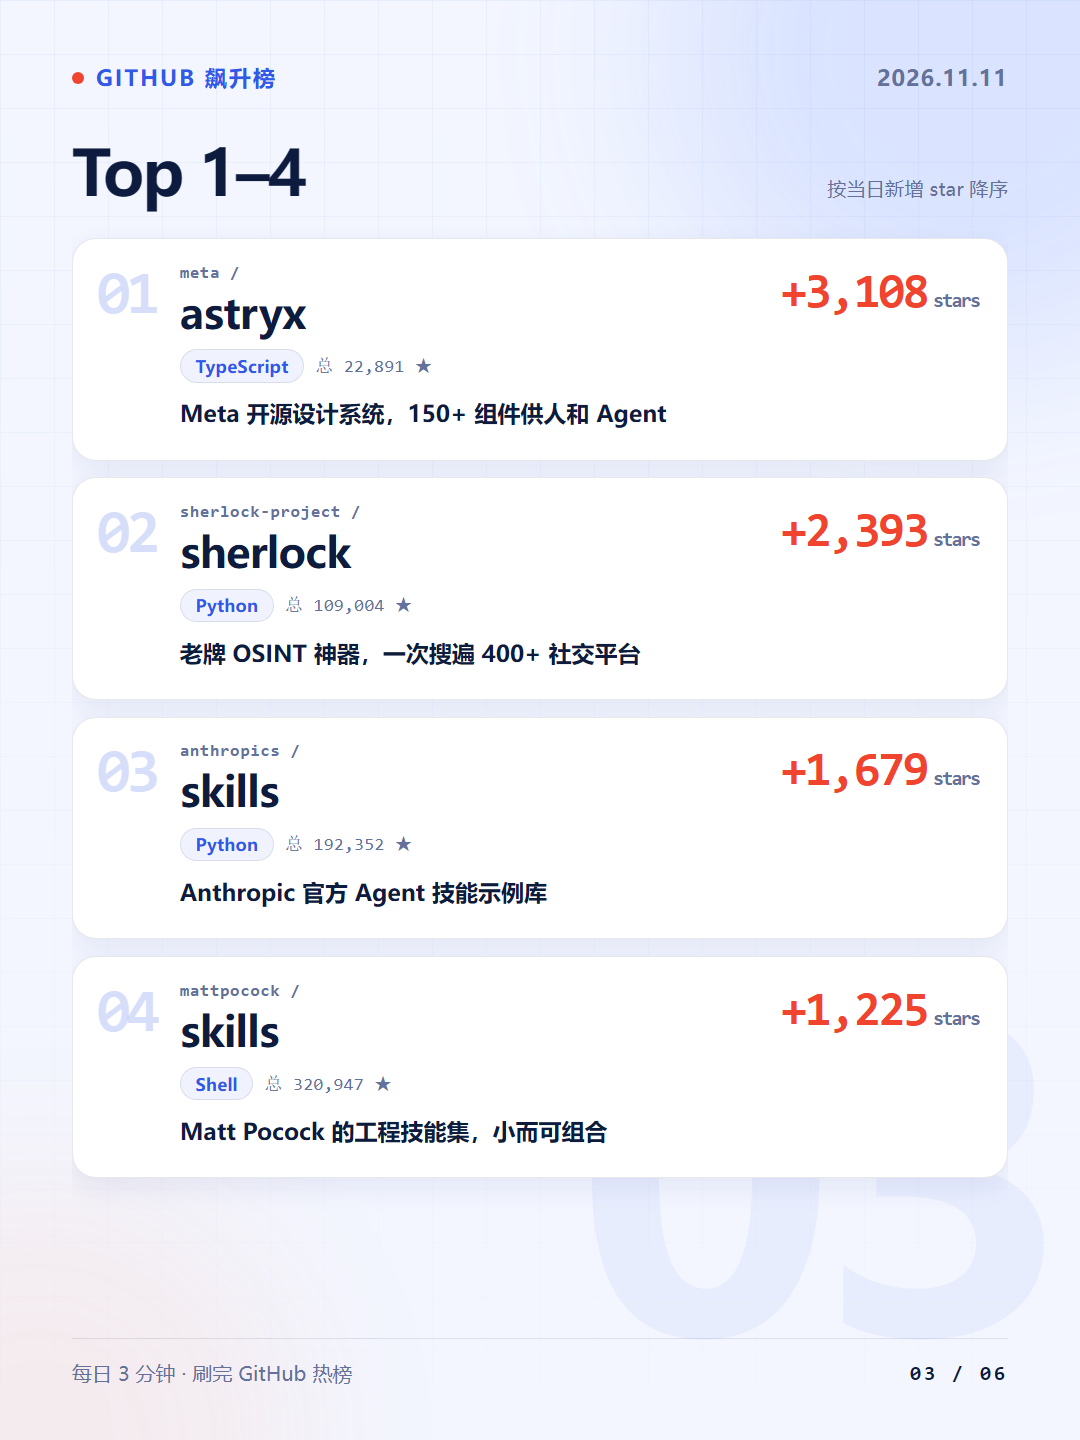
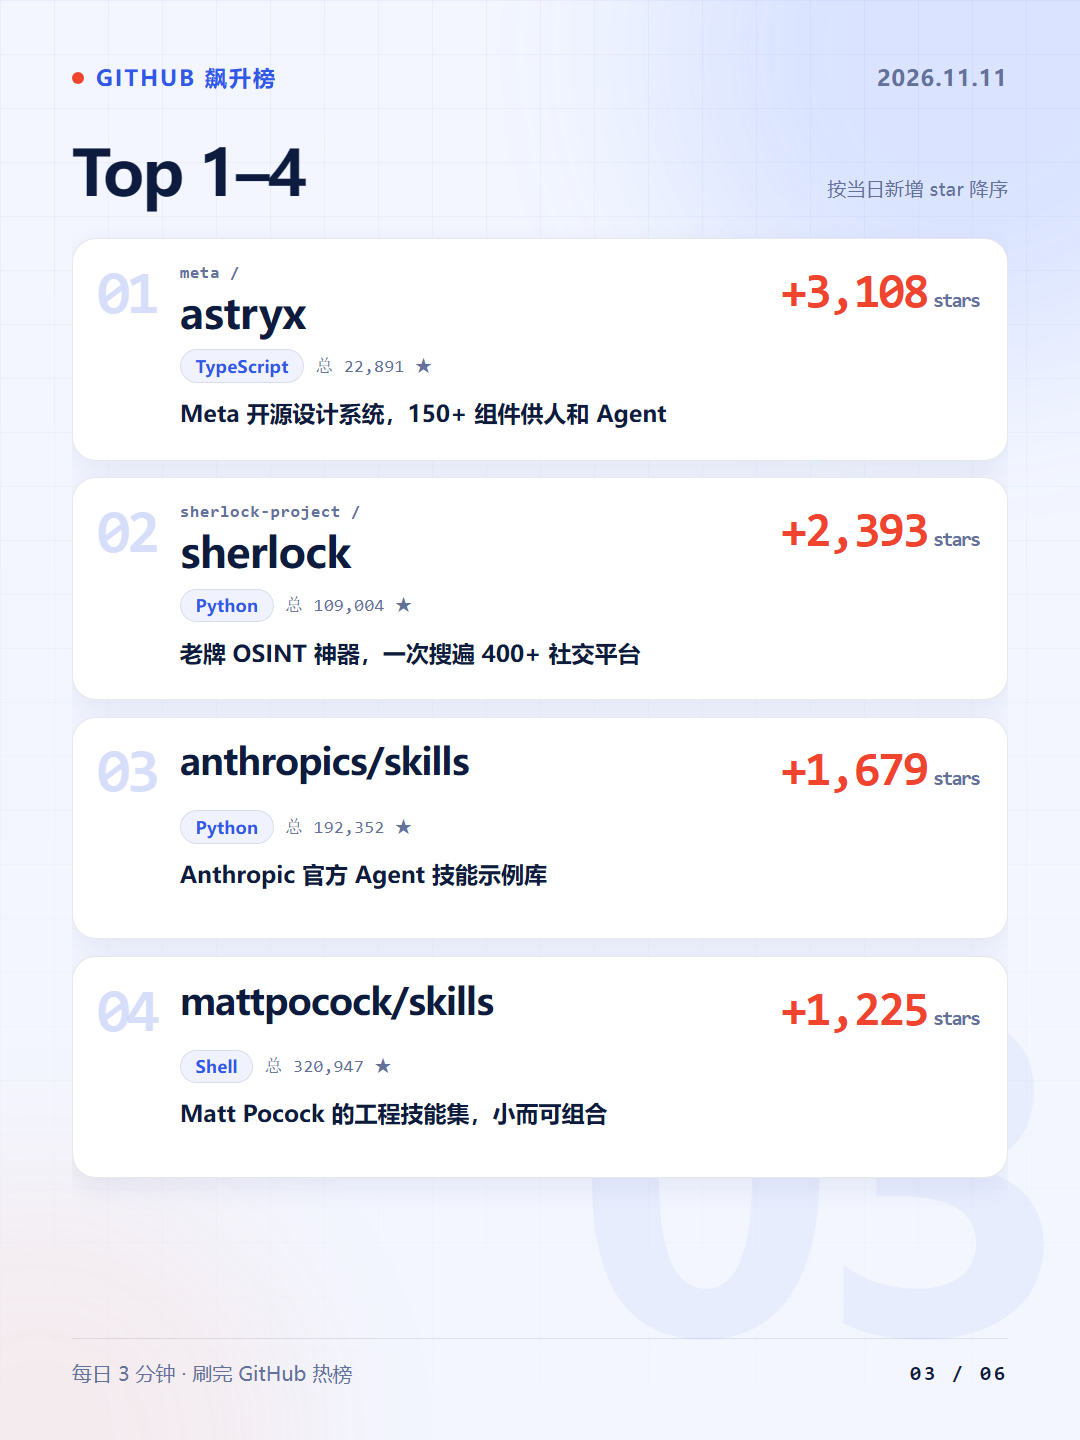
fix: 榜单重名仓库改显示 owner/repo，重推 11-11 草稿

Changed region(s): [[0.1528, 0.5, 0.5194, 0.625], [0.1528, 0.6875, 0.4583, 0.8125], [0.4583, 0.75, 0.5806, 0.8125]]

diff --git a/pic/20261111/xhs/_02-今日看点.html b/pic/20261111/xhs/_02-今日看点.html
@@ -84,7 +84,7 @@ body{
    border-radius:24px;padding:24px 30px 20px;box-shadow:var(--shadow)}
 .bars h3{font-size:23px;font-weight:900;margin-bottom:20px;letter-spacing:1px}
 .bar{display:flex;align-items:center;gap:16px;margin:15px 0;font-size:20px}
-.bar .bn{width:230px;overflow:hidden;text-overflow:ellipsis;white-space:nowrap;font-weight:700}
+.bar .bn{width:290px;overflow:hidden;text-overflow:ellipsis;white-space:nowrap;font-weight:700}
 .bar .track{flex:1;height:15px;background:var(--pill);border-radius:99px;overflow:hidden}
 .bar .track i{display:block;height:100%;border-radius:99px;
    background:linear-gradient(90deg,var(--hot),var(--hot2))}
@@ -149,7 +149,7 @@ body{
       <div class="sec-desc">GitHub Trending · daily · 2026-11-11 09:14 UTC+8</div>
       <div class="overview">astryx 接棒登顶，单日 +3108 星；sherlock 退居第二。Skills 三席同榜成最大看点，Top10 合计 +11802，6 席为昨日老面孔。</div>
       <div class="trends"><div class="trend"><div class="n mono">01</div><div class="t">astryx 登顶，+3108 星</div></div><div class="trend"><div class="n mono">02</div><div class="t">Skills 三席同榜，共 +3369</div></div><div class="trend"><div class="n mono">03</div><div class="t">Top10 合计 +11802 星</div></div></div>
-      <div class="bars"><h3>今日涨星分布 · TOP 5</h3><div class="bar"><span class="bn">astryx</span><div class="track"><i style="width:100%"></i></div><span class="bv mono">+3,108</span></div><div class="bar"><span class="bn">sherlock</span><div class="track"><i style="width:77%"></i></div><span class="bv mono">+2,393</span></div><div class="bar"><span class="bn">skills</span><div class="track"><i style="width:54%"></i></div><span class="bv mono">+1,679</span></div><div class="bar"><span class="bn">skills</span><div class="track"><i style="width:39%"></i></div><span class="bv mono">+1,225</span></div><div class="bar"><span class="bn">ha-mcp</span><div class="track"><i style="width:25%"></i></div><span class="bv mono">+790</span></div></div>
+      <div class="bars"><h3>今日涨星分布 · TOP 5</h3><div class="bar"><span class="bn">astryx</span><div class="track"><i style="width:100%"></i></div><span class="bv mono">+3,108</span></div><div class="bar"><span class="bn">sherlock</span><div class="track"><i style="width:77%"></i></div><span class="bv mono">+2,393</span></div><div class="bar"><span class="bn">anthropics/skills</span><div class="track"><i style="width:54%"></i></div><span class="bv mono">+1,679</span></div><div class="bar"><span class="bn">mattpocock/skills</span><div class="track"><i style="width:39%"></i></div><span class="bv mono">+1,225</span></div><div class="bar"><span class="bn">ha-mcp</span><div class="track"><i style="width:25%"></i></div><span class="bv mono">+790</span></div></div>
       <div class="stat-row">
       <div class="stat"><div class="v hot mono">+11,802</div><div class="l">合计涨星</div></div>
       <div class="stat"><div class="v mono">10</div><div class="l">上榜项目</div></div>

diff --git a/pic/20261111/xhs/_01-封面.html b/pic/20261111/xhs/_01-封面.html
@@ -84,7 +84,7 @@ body{
    border-radius:24px;padding:24px 30px 20px;box-shadow:var(--shadow)}
 .bars h3{font-size:23px;font-weight:900;margin-bottom:20px;letter-spacing:1px}
 .bar{display:flex;align-items:center;gap:16px;margin:15px 0;font-size:20px}
-.bar .bn{width:230px;overflow:hidden;text-overflow:ellipsis;white-space:nowrap;font-weight:700}
+.bar .bn{width:290px;overflow:hidden;text-overflow:ellipsis;white-space:nowrap;font-weight:700}
 .bar .track{flex:1;height:15px;background:var(--pill);border-radius:99px;overflow:hidden}
 .bar .track i{display:block;height:100%;border-radius:99px;
    background:linear-gradient(90deg,var(--hot),var(--hot2))}
@@ -150,7 +150,7 @@ body{
         <div class="cover-sub">GitHub 飙升榜 Top 10</div>
         <div class="cover-kicker">每日开源项目速览</div>
         <div class="cover-pills"><span class="pill">astryx 登顶，+3108 星</span><span class="pill">Skills 三席同榜，共 +3369</span><span class="pill">Top10 合计 +11802 星</span></div>
-        <div class="cover-top3"><div class="t3h">今日 TOP 3 · 涨星</div><div class="t3"><span class="r mono">01</span><span class="n">astryx</span><span class="d mono">+3,108</span></div><div class="t3"><span class="r mono">02</span><span class="n">sherlock</span><span class="d mono">+2,393</span></div><div class="t3"><span class="r mono">03</span><span class="n">skills</span><span class="d mono">+1,679</span></div></div>
+        <div class="cover-top3"><div class="t3h">今日 TOP 3 · 涨星</div><div class="t3"><span class="r mono">01</span><span class="n">astryx</span><span class="d mono">+3,108</span></div><div class="t3"><span class="r mono">02</span><span class="n">sherlock</span><span class="d mono">+2,393</span></div><div class="t3"><span class="r mono">03</span><span class="n">anthropics/skills</span><span class="d mono">+1,679</span></div></div>
         <div class="cover-stats">
       <div class="s"><div class="v hot mono">+11,802</div><div class="l">Top10 今日合计涨星</div></div>
       <div class="s"><div class="v mono">+3,108</div><div class="l">单日最高</div></div>

diff --git a/pic/20261111/xhs/_03-榜单-01-04.html b/pic/20261111/xhs/_03-榜单-01-04.html
@@ -84,7 +84,7 @@ body{
    border-radius:24px;padding:24px 30px 20px;box-shadow:var(--shadow)}
 .bars h3{font-size:23px;font-weight:900;margin-bottom:20px;letter-spacing:1px}
 .bar{display:flex;align-items:center;gap:16px;margin:15px 0;font-size:20px}
-.bar .bn{width:230px;overflow:hidden;text-overflow:ellipsis;white-space:nowrap;font-weight:700}
+.bar .bn{width:290px;overflow:hidden;text-overflow:ellipsis;white-space:nowrap;font-weight:700}
 .bar .track{flex:1;height:15px;background:var(--pill);border-radius:99px;overflow:hidden}
 .bar .track i{display:block;height:100%;border-radius:99px;
    background:linear-gradient(90deg,var(--hot),var(--hot2))}
@@ -173,8 +173,8 @@ body{
               <div class="row">
                 <div class="rk mono">03</div>
                 <div class="top">
-                  <div class="repo-box"><div class="owner-line mono">anthropics /</div>
-                    <div class="repo-name" style="font-size:46px">skills</div></div>
+                  <div class="repo-box">
+                    <div class="repo-name" style="font-size:40px">anthropics/skills</div></div>
                   <div class="delta mono">+1,679<small>stars</small></div>
                 </div>
                 <div class="meta"><span class="tag">Python</span>
@@ -184,8 +184,8 @@ body{
               <div class="row">
                 <div class="rk mono">04</div>
                 <div class="top">
-                  <div class="repo-box"><div class="owner-line mono">mattpocock /</div>
-                    <div class="repo-name" style="font-size:46px">skills</div></div>
+                  <div class="repo-box">
+                    <div class="repo-name" style="font-size:40px">mattpocock/skills</div></div>
                   <div class="delta mono">+1,225<small>stars</small></div>
                 </div>
                 <div class="meta"><span class="tag">Shell</span>

diff --git a/pic/20261111/wechat/_公众号封面.html b/pic/20261111/wechat/_公众号封面.html
@@ -84,7 +84,7 @@ body{
    border-radius:24px;padding:24px 30px 20px;box-shadow:var(--shadow)}
 .bars h3{font-size:23px;font-weight:900;margin-bottom:20px;letter-spacing:1px}
 .bar{display:flex;align-items:center;gap:16px;margin:15px 0;font-size:20px}
-.bar .bn{width:230px;overflow:hidden;text-overflow:ellipsis;white-space:nowrap;font-weight:700}
+.bar .bn{width:290px;overflow:hidden;text-overflow:ellipsis;white-space:nowrap;font-weight:700}
 .bar .track{flex:1;height:15px;background:var(--pill);border-radius:99px;overflow:hidden}
 .bar .track i{display:block;height:100%;border-radius:99px;
    background:linear-gradient(90deg,var(--hot),var(--hot2))}

diff --git a/pic/20261111/xhs/_04-榜单-05-08.html b/pic/20261111/xhs/_04-榜单-05-08.html
@@ -84,7 +84,7 @@ body{
    border-radius:24px;padding:24px 30px 20px;box-shadow:var(--shadow)}
 .bars h3{font-size:23px;font-weight:900;margin-bottom:20px;letter-spacing:1px}
 .bar{display:flex;align-items:center;gap:16px;margin:15px 0;font-size:20px}
-.bar .bn{width:230px;overflow:hidden;text-overflow:ellipsis;white-space:nowrap;font-weight:700}
+.bar .bn{width:290px;overflow:hidden;text-overflow:ellipsis;white-space:nowrap;font-weight:700}
 .bar .track{flex:1;height:15px;background:var(--pill);border-radius:99px;overflow:hidden}
 .bar .track i{display:block;height:100%;border-radius:99px;
    background:linear-gradient(90deg,var(--hot),var(--hot2))}

diff --git a/pic/20261111/xhs/_05-榜单-09-10.html b/pic/20261111/xhs/_05-榜单-09-10.html
@@ -84,7 +84,7 @@ body{
    border-radius:24px;padding:24px 30px 20px;box-shadow:var(--shadow)}
 .bars h3{font-size:23px;font-weight:900;margin-bottom:20px;letter-spacing:1px}
 .bar{display:flex;align-items:center;gap:16px;margin:15px 0;font-size:20px}
-.bar .bn{width:230px;overflow:hidden;text-overflow:ellipsis;white-space:nowrap;font-weight:700}
+.bar .bn{width:290px;overflow:hidden;text-overflow:ellipsis;white-space:nowrap;font-weight:700}
 .bar .track{flex:1;height:15px;background:var(--pill);border-radius:99px;overflow:hidden}
 .bar .track i{display:block;height:100%;border-radius:99px;
    background:linear-gradient(90deg,var(--hot),var(--hot2))}

diff --git a/pic/20261111/xhs/_06-结尾.html b/pic/20261111/xhs/_06-结尾.html
@@ -84,7 +84,7 @@ body{
    border-radius:24px;padding:24px 30px 20px;box-shadow:var(--shadow)}
 .bars h3{font-size:23px;font-weight:900;margin-bottom:20px;letter-spacing:1px}
 .bar{display:flex;align-items:center;gap:16px;margin:15px 0;font-size:20px}
-.bar .bn{width:230px;overflow:hidden;text-overflow:ellipsis;white-space:nowrap;font-weight:700}
+.bar .bn{width:290px;overflow:hidden;text-overflow:ellipsis;white-space:nowrap;font-weight:700}
 .bar .track{flex:1;height:15px;background:var(--pill);border-radius:99px;overflow:hidden}
 .bar .track i{display:block;height:100%;border-radius:99px;
    background:linear-gradient(90deg,var(--hot),var(--hot2))}

diff --git a/scripts/render_xhs_cards.py b/scripts/render_xhs_cards.py
@@ -27,6 +27,7 @@ import re
 import shutil
 import subprocess
 import sys
+from collections import Counter
 from datetime import datetime
 from pathlib import Path
 
@@ -113,7 +114,7 @@ body{
    border-radius:24px;padding:24px 30px 20px;box-shadow:var(--shadow)}
 .bars h3{font-size:23px;font-weight:900;margin-bottom:20px;letter-spacing:1px}
 .bar{display:flex;align-items:center;gap:16px;margin:15px 0;font-size:20px}
-.bar .bn{width:230px;overflow:hidden;text-overflow:ellipsis;white-space:nowrap;font-weight:700}
+.bar .bn{width:290px;overflow:hidden;text-overflow:ellipsis;white-space:nowrap;font-weight:700}
 .bar .track{flex:1;height:15px;background:var(--pill);border-radius:99px;overflow:hidden}
 .bar .track i{display:block;height:100%;border-radius:99px;
    background:linear-gradient(90deg,var(--hot),var(--hot2))}
@@ -304,6 +305,10 @@ def load_data(args):
     items.sort(key=lambda x: (-x["new_stars"], x["rank"]))
     for i, it in enumerate(items, 1):
         it["rank"] = i
+    # 同名不同作者（如 anthropics/skills 与 mattpocock/skills）一律显示 owner/repo，避免读者以为重复
+    name_count = Counter(it["name"].lower() for it in items)
+    for it in items:
+        it["display"] = it["repo"] if name_count[it["name"].lower()] > 1 else it["name"]
     data["items"] = items
     data.setdefault("date", datetime.now().strftime("%Y-%m-%d"))
     data.setdefault("window", f"GitHub Trending · daily · {data['date']}")
@@ -356,7 +361,7 @@ def build_cards(d, theme, per_page):
       <div class="s"><div class="v mono">{langs}</div><div class="l">覆盖语言</div></div>"""
     t3_rows = "".join(
         f'<div class="t3"><span class="r mono">{x["rank"]:02d}</span>'
-        f'<span class="n">{esc(x["name"])}</span>'
+        f'<span class="n">{esc(x["display"])}</span>'
         f'<span class="d mono">+{fmt(x["new_stars"])}</span></div>'
         for x in items[:3])
     top3_html = (f'<div class="cover-top3"><div class="t3h">今日 TOP 3 · 涨星</div>'
@@ -384,7 +389,7 @@ def build_cards(d, theme, per_page):
     top5 = items[:5]
     mx = max((x["new_stars"] for x in top5), default=1) or 1
     bars = "".join(
-        f'<div class="bar"><span class="bn">{esc(x["name"])}</span>'
+        f'<div class="bar"><span class="bn">{esc(x["display"])}</span>'
         f'<div class="track"><i style="width:{max(6, round(x["new_stars"] / mx * 100))}%"></i></div>'
         f'<span class="bv mono">+{fmt(x["new_stars"])}</span></div>' for x in top5)
     body = f"""
@@ -404,15 +409,16 @@ def build_cards(d, theme, per_page):
         hi = chunk[-1]["rank"] if chunk else 0
         rows = []
         for it in chunk:
-            size = 46 if len(it["name"]) <= 14 else (40 if len(it["name"]) <= 20 else 34)
+            label = it["display"]
+            size = 46 if len(label) <= 14 else (40 if len(label) <= 20 else 34)
             owner_html = (f'<div class="owner-line mono">{esc(it["owner"])} /</div>'
-                          if it["owner"] != it["repo"] else "")
+                          if label == it["name"] and it["owner"] != it["repo"] else "")
             rows.append(f"""
               <div class="row">
                 <div class="rk mono">{it['rank']:02d}</div>
                 <div class="top">
                   <div class="repo-box">{owner_html}
-                    <div class="repo-name" style="font-size:{size}px">{esc(it['name'])}</div></div>
+                    <div class="repo-name" style="font-size:{size}px">{esc(label)}</div></div>
                   <div class="delta mono">+{fmt(it['new_stars'])}<small>stars</small></div>
                 </div>
                 <div class="meta"><span class="tag">{esc(it['lang'])}</span>
@@ -469,7 +475,7 @@ def note_markdown(d):
              "老规矩，每天 3 分钟，带你看完今天涨最猛的开源项目👇", ""]
     for i, it in enumerate(d["items"]):
         emoji = NUM_EMOJI[i] if i < len(NUM_EMOJI) else f"({i+1})"
-        lines.append(f"{emoji} {it['name']}：今日 +{fmt(it['new_stars'])} 星。{it['one_liner']}（{it['lang']}，总 {fmt(it['total_stars'])} ★）")
+        lines.append(f"{emoji} {it['display']}：今日 +{fmt(it['new_stars'])} 星。{it['one_liner']}（{it['lang']}，总 {fmt(it['total_stars'])} ★）")
     lines += ["", "你最想试哪个？评论区聊聊👇", "也欢迎交换你收藏的神器。",
               "关注我，每天 3 分钟刷完 GitHub 热榜，不迷路。", "",
               " ".join(d["hashtags"]), "", "---", "",
